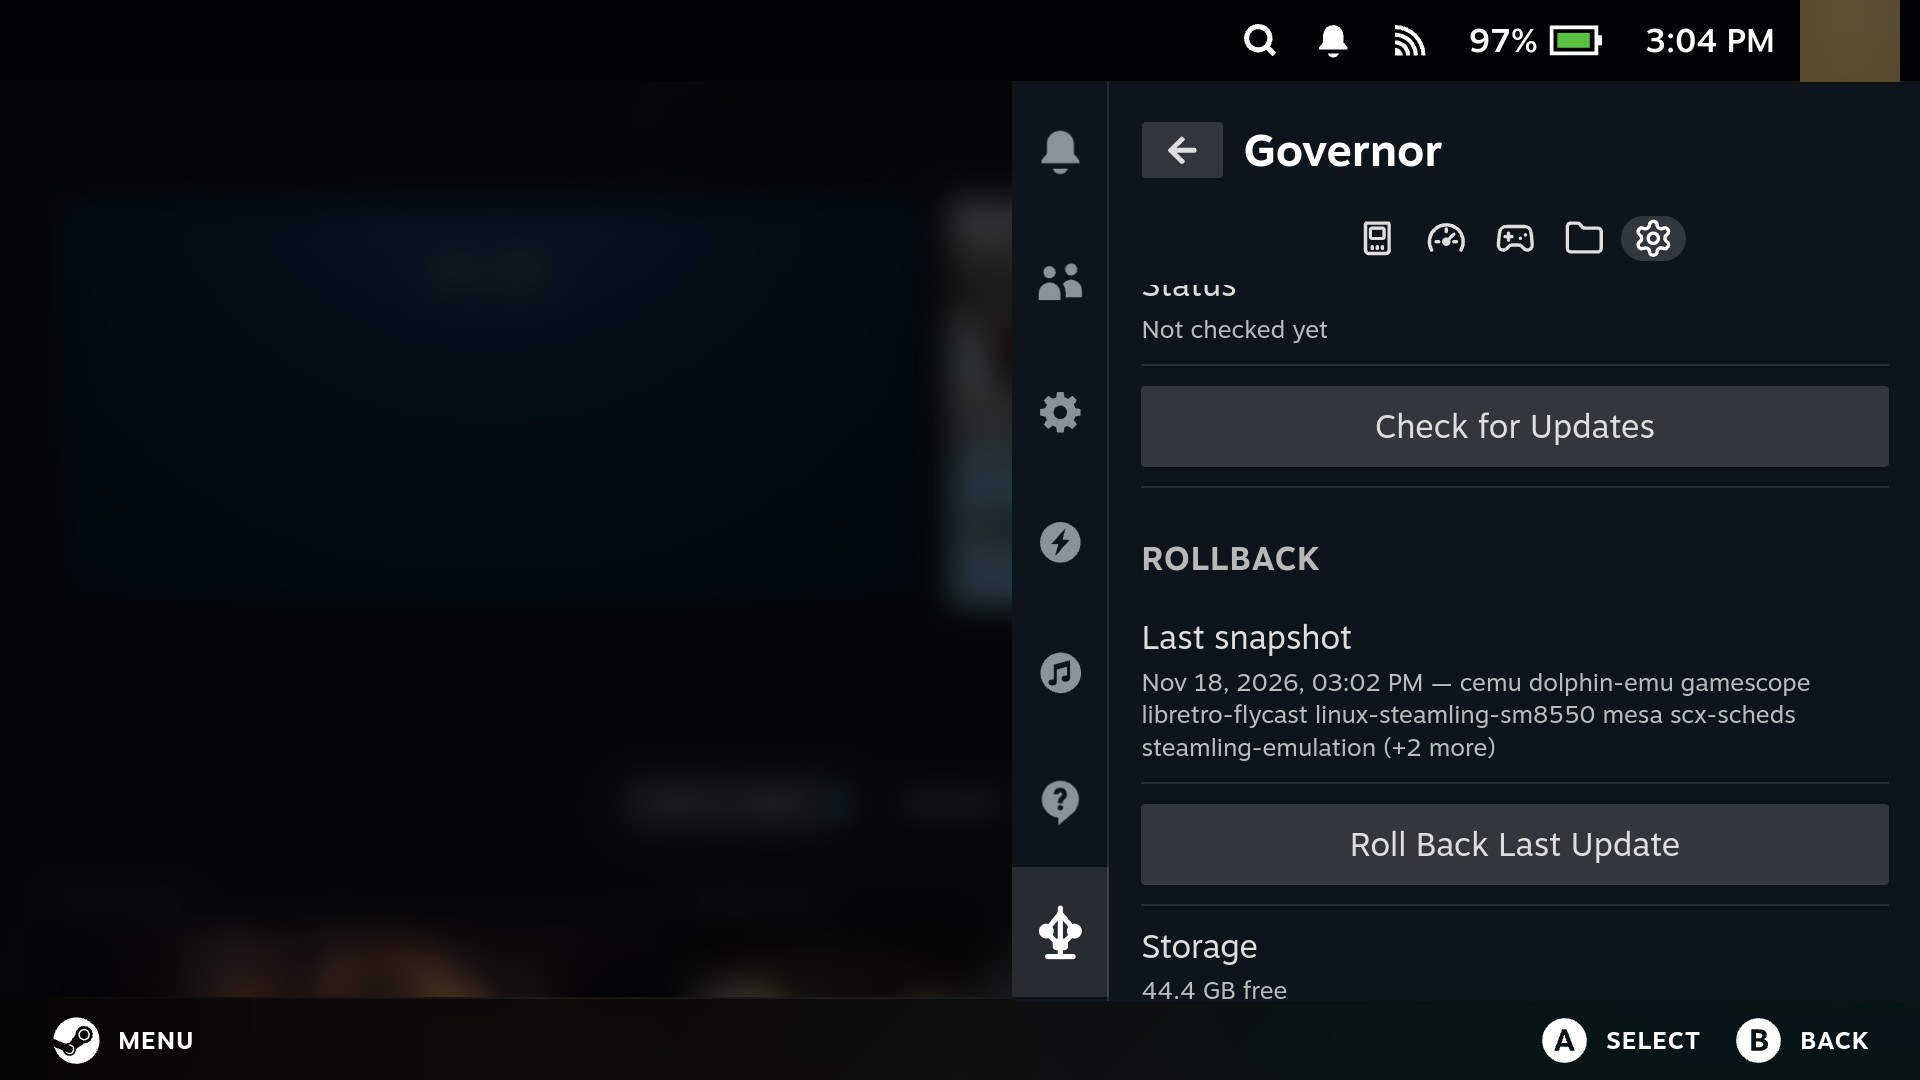
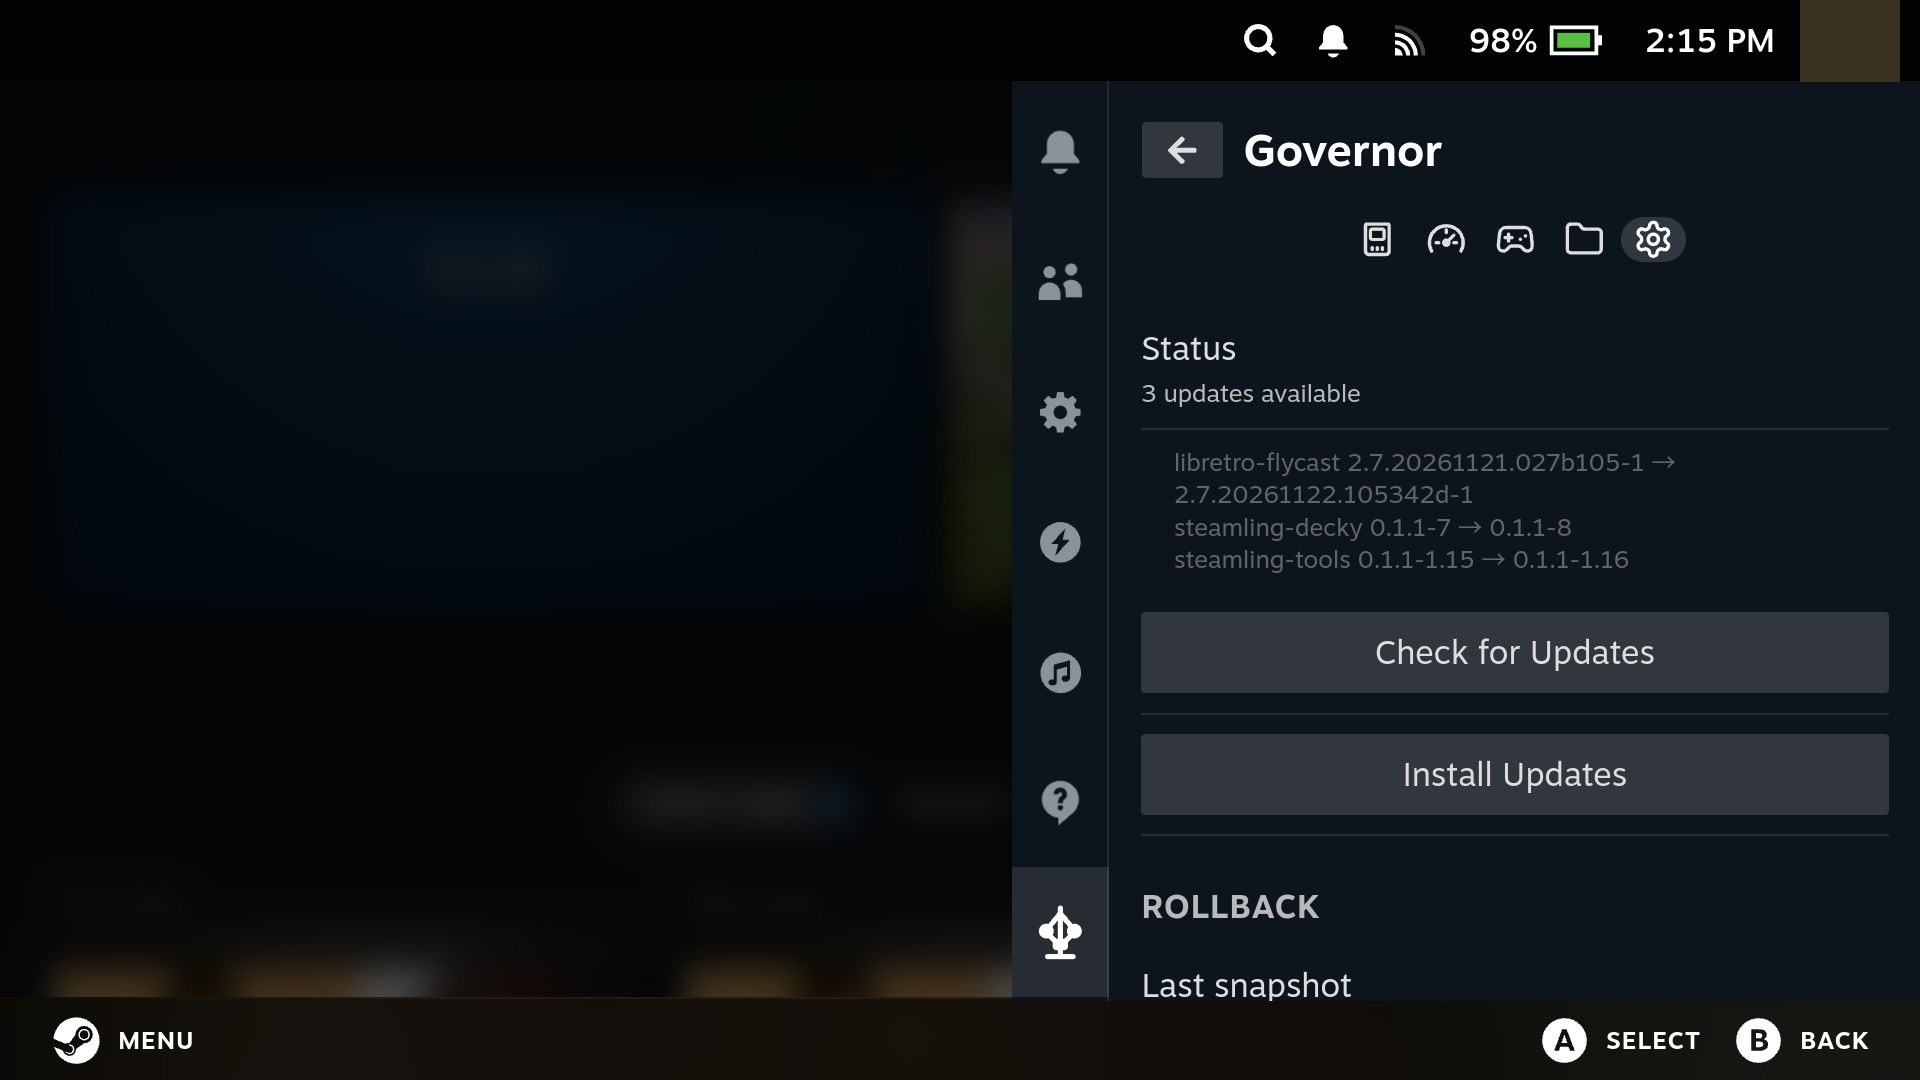
docs: new System tab and Steam system screenshots
The updater now lists updates coming from the package repo, About shows
the base the handheld is on, and Steam's System page has the new OS
Build, so the three screenshots are retaken (avatar and serial number
blurred) with captions to match. The text also says what OS Build is:
the Arch Linux ARM base snapshot, not a build date.

diff --git a/docs/governor.md b/docs/governor.md
@@ -292,7 +292,7 @@ target right away, and cards formatted here also work in a real Steam Deck (and 
 
 ## System
 
-![The System tab: Check for Updates, and the last snapshot under Rollback](images/governor-updater.jpeg)
+![The System tab: three updates from the package repo listed with their old and new versions, Check for Updates and Install Updates, then Rollback](images/governor-updater.jpeg)
 
 System updates, without leaving game mode:
 
@@ -340,15 +340,16 @@ less on these small screens.
 
 ### About
 
-The bottom of the tab shows your Steamling OS version, the kernel, and whether the bootloader
-on internal storage is the OpenABL this build ships. Handy when you're filing a bug.
+The bottom of the tab shows your Steamling OS version and the base snapshot it's on, the kernel,
+and whether the bootloader on internal storage is the OpenABL this build ships. Handy when you're filing a bug.
 
-![The About section: Steamling OS 0.1.1, kernel 7.3.1, OpenABL 1.2 and Restart Game Mode](images/governor-about.jpeg)
+![The About section: Steamling OS 0.1.1 (base 20261121), kernel 7.3.5, OpenABL 1.2 up to date, and Restart Game Mode](images/governor-about.jpeg)
 
 Steam's own **Settings → System** page shows the same details too: the OS name, the release
-codename, which handheld it is under **OS Variant**, the version, the build date and the kernel.
+codename, which handheld it is under **OS Variant**, the version, the kernel, and under **OS Build** the
+Arch Linux ARM base snapshot it's on.
 
-![Steam's System settings: Steamling OS, codename hatchling, OS Variant Retroid Pocket 6 (SM8550), version 0.1.1 and kernel 7.3.5](images/steam-settings-system.jpeg)
+![Steam's System settings: Steamling OS, codename hatchling, OS Variant Retroid Pocket 6 (SM8550), version 0.1.1, OS Build 20261121 and kernel 7.3.5](images/steam-settings-system.jpeg)
 
 **Restart Game Mode** closes Steam and brings game mode back up, for the times Steam or the
 screen gets stuck. Anything unsaved in a running game is lost.
